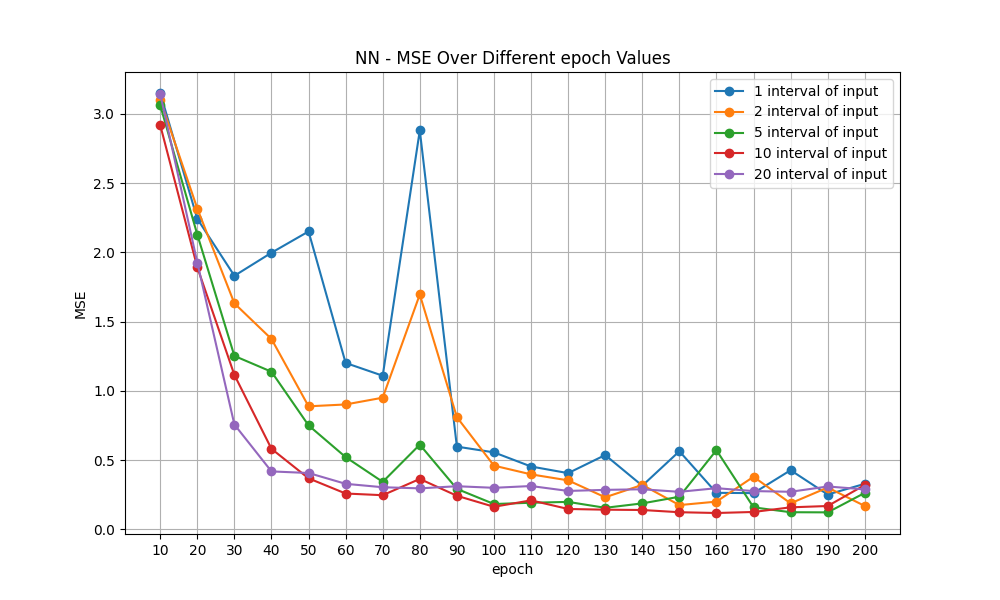
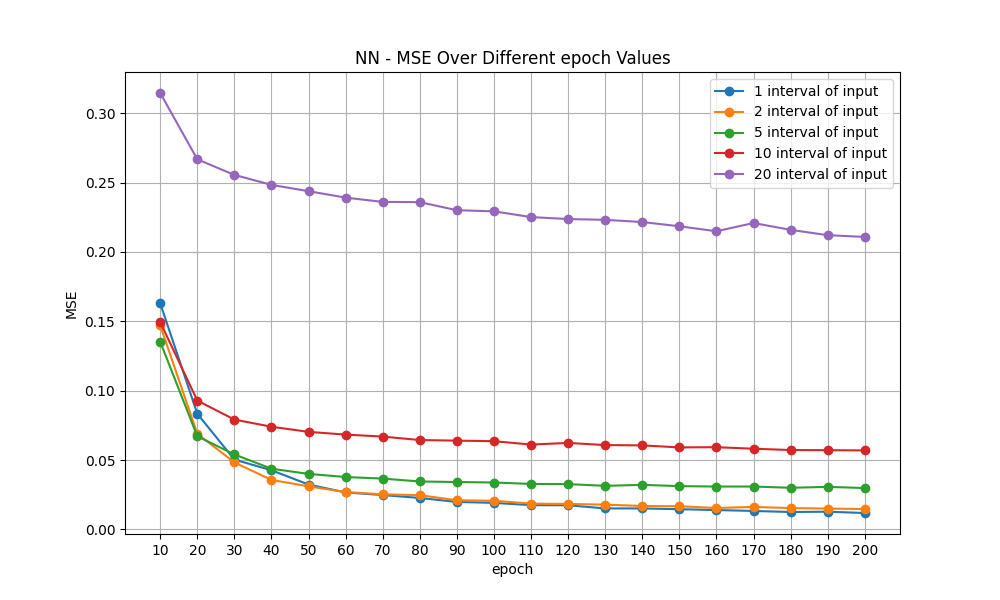
standard

diff --git a/tools/utils.py b/tools/utils.py
@@ -13,6 +13,7 @@ from tensorflow.keras import Sequential
 from tensorflow.keras.layers import Dense, Dropout, LayerNormalization
 from tensorflow.keras import Model
 from tensorflow.keras.optimizers import Adam
+from sklearn.preprocessing import StandardScaler
 
 dataset_path = 'dataset/Single_EDFA_Dataset.csv'
 
@@ -117,11 +118,11 @@ def simple_resnet_block(input_tensor, units, use_projection=False):
 
 def build_nn_model(input_dim, output_dim):
     inputs = Input(shape=(input_dim,))
-    x = Dense(256, activation='relu')(inputs)
+    x = Dense(256, activation='linear')(inputs)
 
     # x = simple_resnet_block(x, 256)
     x = simple_resnet_block(x, 128, use_projection=True)
-    x = Dense(64, activation='relu')(x)
+    # x = Dense(128, activation='linear')(x)
 
     outputs = Dense(output_dim, activation='linear')(x)
 
@@ -131,6 +132,11 @@ def build_nn_model(input_dim, output_dim):
 
 
 def test_nn(X, y, interval):
+    scaler_X = StandardScaler()
+    scaler_y = StandardScaler()
+
+    X = scaler_X.fit_transform(X)
+    y = scaler_y.fit_transform(y)
     X_train, X_test, y_train, y_test = train_test_split(X, y, test_size=0.2, random_state=42)
 
     mse_list = []
@@ -148,9 +154,12 @@ def test_nn(X, y, interval):
 
         y_pred = model.predict(X_test)
 
-        mse = mean_squared_error(y_test, y_pred)
-        mae = mean_absolute_error(y_test, y_pred)
-        r2 = r2_score(y_test, y_pred)
+        y_pred_inverse = scaler_y.inverse_transform(y_pred)
+        y_test_inverse = scaler_y.inverse_transform(y_test)
+
+        mse = mean_squared_error(y_test_inverse, y_pred_inverse)
+        mae = mean_absolute_error(y_test_inverse, y_pred_inverse)
+        r2 = r2_score(y_test_inverse, y_pred_inverse)
 
         mse_list.append(mse)
         mae_list.append(mae)
